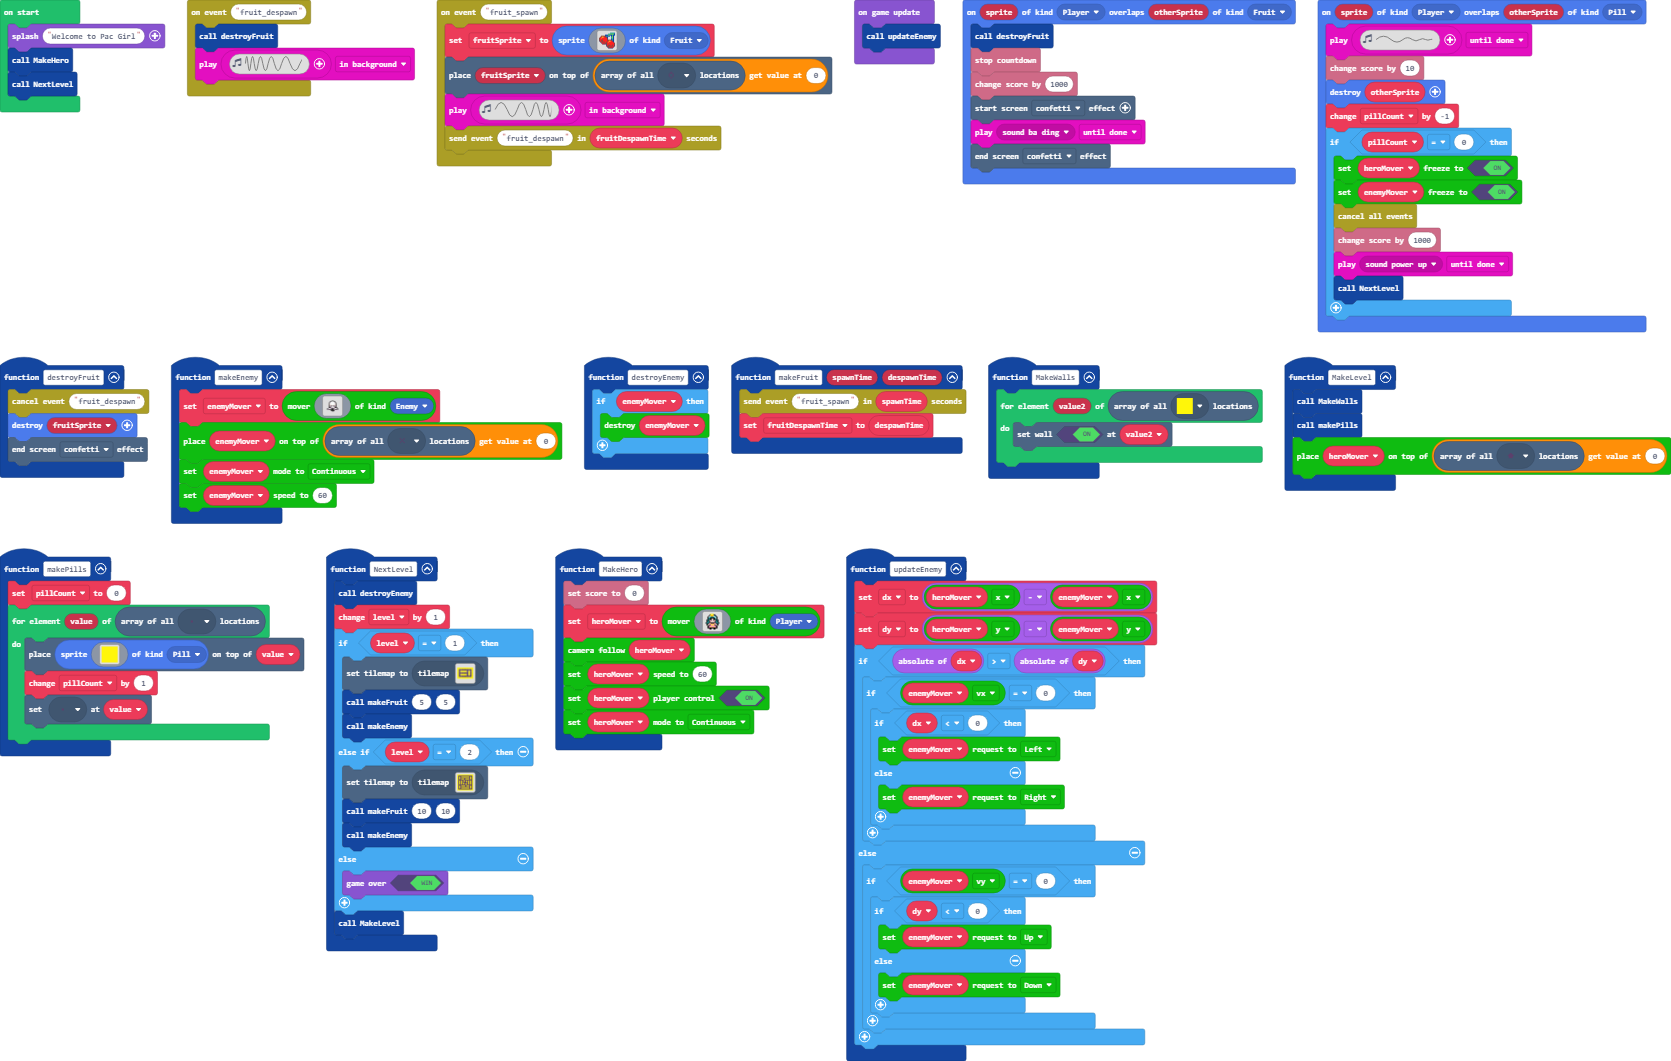
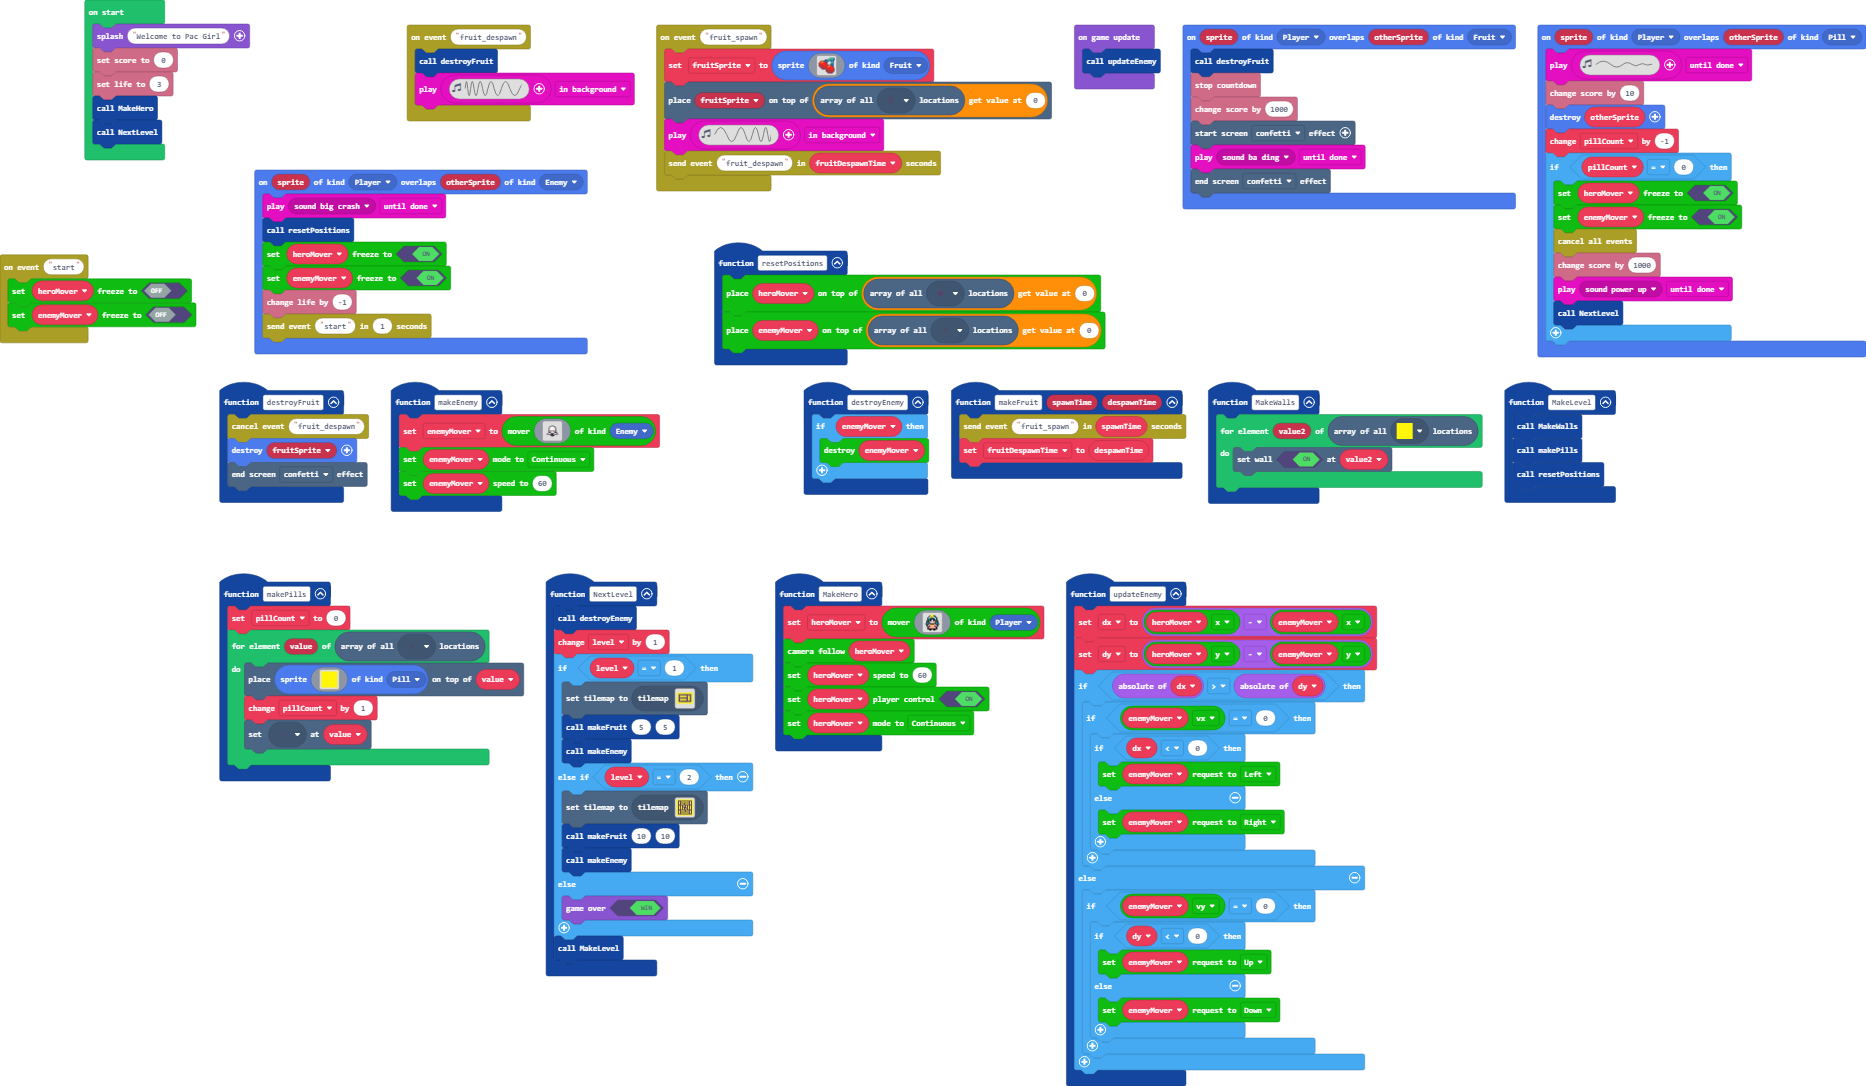
Player now loses life

diff --git a/main.ts b/main.ts
@@ -2,6 +2,10 @@ namespace SpriteKind {
     export const Pill = SpriteKind.create()
     export const Fruit = SpriteKind.create()
 }
+function resetPositions () {
+    heroMover.place(tiles.getTilesByType(assets.tile`floorHome`)[0])
+    enemyMover.place(tiles.getTilesByType(assets.tile`floorEnemy`)[0])
+}
 function updateEnemy () {
     dx = heroMover.x - enemyMover.x
     dy = heroMover.y - enemyMover.y
@@ -48,6 +52,10 @@ function makeFruit (spawnTime: number, despawnTime: number) {
     events.sendEvent("fruit_spawn", spawnTime)
     fruitDespawnTime = despawnTime
 }
+events.onEvent("start", function () {
+    heroMover.setFreeze(false)
+    enemyMover.setFreeze(false)
+})
 events.onEvent("fruit_despawn", function () {
     destroyFruit()
     music.play(music.createSoundEffect(WaveShape.Sine, 5000, 1052, 255, 255, 250, SoundExpressionEffect.None, InterpolationCurve.Linear), music.PlaybackMode.InBackground)
@@ -71,7 +79,7 @@ function NextLevel () {
 function MakeLevel () {
     MakeWalls()
     makePills()
-    heroMover.place(tiles.getTilesByType(assets.tile`floorHome`)[0])
+    resetPositions()
 }
 function destroyEnemy () {
     if (enemyMover) {
@@ -98,7 +106,6 @@ sprites.onOverlap(SpriteKind.Player, SpriteKind.Pill, function (sprite, otherSpr
     }
 })
 function MakeHero () {
-    info.setScore(0)
     heroMover = gridmove.create(img`
         . . . . . . 5 . 5 . . . . . . . 
         . . . . . f 5 5 5 f f . . . . . 
@@ -149,7 +156,6 @@ function makeEnemy () {
         ........................
         ........................
         `, SpriteKind.Enemy)
-    enemyMover.place(tiles.getTilesByType(assets.tile`floorEnemy`)[0])
     enemyMover.setMode(gridmove.Mode.Continuous)
     enemyMover.setSpeed(60)
 }
@@ -176,15 +182,25 @@ events.onEvent("fruit_spawn", function () {
     music.play(music.createSoundEffect(WaveShape.Sine, 1188, 5000, 255, 255, 250, SoundExpressionEffect.None, InterpolationCurve.Linear), music.PlaybackMode.InBackground)
     events.sendEvent("fruit_despawn", fruitDespawnTime)
 })
+sprites.onOverlap(SpriteKind.Player, SpriteKind.Enemy, function (sprite, otherSprite) {
+    music.play(music.melodyPlayable(music.bigCrash), music.PlaybackMode.UntilDone)
+    resetPositions()
+    heroMover.setFreeze(true)
+    enemyMover.setFreeze(true)
+    info.changeLifeBy(-1)
+    events.sendEvent("start", 1)
+})
 let level = 0
 let fruitDespawnTime = 0
 let fruitSprite: Sprite = null
 let pillCount = 0
 let dy = 0
+let dx = 0
 let enemyMover: gridmove.Mover = null
 let heroMover: gridmove.Mover = null
-let dx = 0
 game.splash("Welcome to Pac Girl")
+info.setScore(0)
+info.setLife(3)
 MakeHero()
 NextLevel()
 game.onUpdate(function () {

diff --git a/tilemap.g.ts b/tilemap.g.ts
@@ -196,6 +196,44 @@ namespace myTiles {
 . . . . . . . . . . . . . . . . 
 . . . . . . . . . . . . . . . . 
 `, [myTiles.transparency16,myTiles.tile1,myTiles.tile2,myTiles.tile3,myTiles.tile4,myTiles.tile5], TileScale.Sixteen);
+            case "level12":
+            case "level12":return tiles.createTilemap(hex`1000100000000000000000000000000000000000000000000000000000000000000000000000000000000000000000000000000000000000000000000000000000000000000000000000000000000000000000000000000000000000000000000000000000000000000000000000000000000000000000000000000000000000000000000000000000000000000000000000000000000000000000000000000000000000000000000000000000000000000000000000000000000000000000000000000000000000000000000000000000000000000000000000000000000000000000000000000000000000000000000000000000000000000000000000000000000000`, img`
+. . . . . . . . . . . . . . . . 
+. . . . . . . . . . . . . . . . 
+. . . . . . . . . . . . . . . . 
+. . . . . . . . . . . . . . . . 
+. . . . . . . . . . . . . . . . 
+. . . . . . . . . . . . . . . . 
+. . . . . . . . . . . . . . . . 
+. . . . . . . . . . . . . . . . 
+. . . . . . . . . . . . . . . . 
+. . . . . . . . . . . . . . . . 
+. . . . . . . . . . . . . . . . 
+. . . . . . . . . . . . . . . . 
+. . . . . . . . . . . . . . . . 
+. . . . . . . . . . . . . . . . 
+. . . . . . . . . . . . . . . . 
+. . . . . . . . . . . . . . . . 
+`, [myTiles.transparency16], TileScale.Sixteen);
+            case "level13":
+            case "level13":return tiles.createTilemap(hex`1000100000000000000000000000000000000000000000000000000000000000000000000000000000000000000000000000000000000000000000000000000000000000000000000000000000000000000000000000000000000000000000000000000000000000000000000000000000000000000000000000000000000000000000000000000000000000000000000000000000000000000000000000000000000000000000000000000000000000000000000000000000000000000000000000000000000000000000000000000000000000000000000000000000000000000000000000000000000000000000000000000000000000000000000000000000000000`, img`
+. . . . . . . . . . . . . . . . 
+. . . . . . . . . . . . . . . . 
+. . . . . . . . . . . . . . . . 
+. . . . . . . . . . . . . . . . 
+. . . . . . . . . . . . . . . . 
+. . . . . . . . . . . . . . . . 
+. . . . . . . . . . . . . . . . 
+. . . . . . . . . . . . . . . . 
+. . . . . . . . . . . . . . . . 
+. . . . . . . . . . . . . . . . 
+. . . . . . . . . . . . . . . . 
+. . . . . . . . . . . . . . . . 
+. . . . . . . . . . . . . . . . 
+. . . . . . . . . . . . . . . . 
+. . . . . . . . . . . . . . . . 
+. . . . . . . . . . . . . . . . 
+`, [myTiles.transparency16], TileScale.Sixteen);
         }
         return null;
     })
